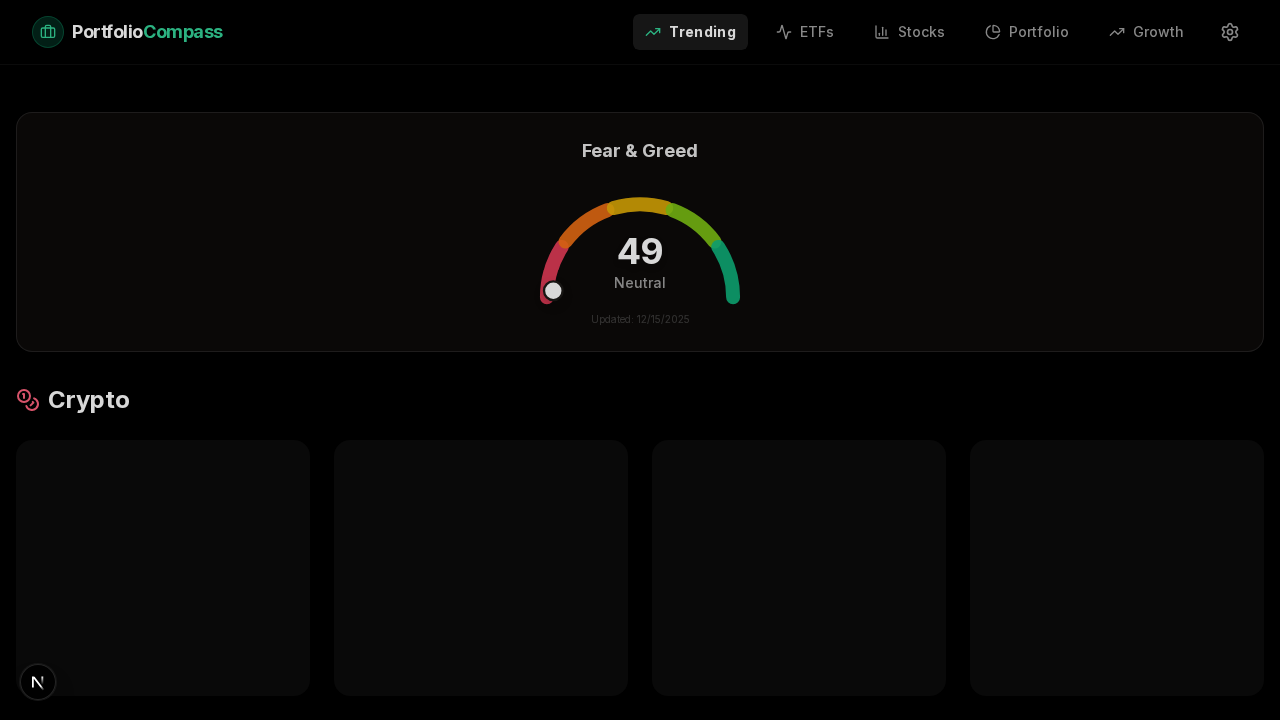
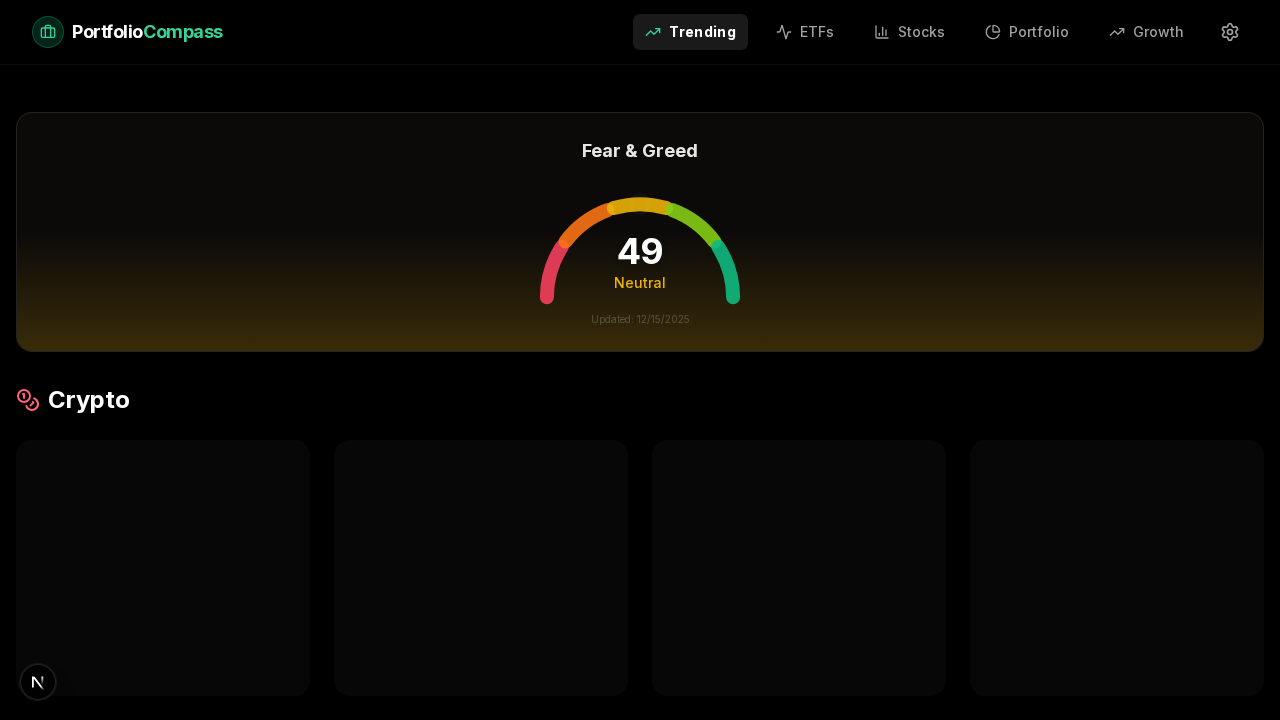
Nexus: Refine Fear & Greed Gauge Visuals
- Updated `components/FearGreedGauge.tsx` to match refined visual requirements:
  - Indicator is now an outline circle (white stroke, transparent fill).
  - Indicator animates from the center-top position (50%) with a fade-in effect.
  - Added a dynamic bottom gradient glow that reflects the current sentiment color.
  - Rating text color ("Neutral", "Fear", etc.) now matches the sentiment color.
- Verified visual changes with frontend tests.

diff --git a/components/FearGreedGauge.tsx b/components/FearGreedGauge.tsx
@@ -56,23 +56,24 @@ export default function FearGreedGauge() {
   // Visualization Constants
   const score = data.score;
   const radius = 80;
-  const strokeWidth = 12; // Thinner stroke as per new image
+  const strokeWidth = 12;
   const center = { x: 100, y: 100 };
 
   // Calculate indicator position
   // Score 0 -> -180 degrees (Left)
+  // Score 50 -> -90 degrees (Top)
   // Score 100 -> 0 degrees (Right)
-  // Note: SVG 0 is 3 o'clock. We want -180 to 0.
   const angleDeg = -180 + (score / 100) * 180;
   const angleRad = (angleDeg * Math.PI) / 180;
 
   const indicatorX = center.x + radius * Math.cos(angleRad);
   const indicatorY = center.y + radius * Math.sin(angleRad);
 
+  // Position for 50% (Top Center) for initial animation
+  const topX = center.x; // 100
+  const topY = center.y - radius; // 20
+
   // Generate Segment Paths
-  // Total span 180 degrees. 5 segments.
-  // Gap of 4 degrees between segments.
-  // Segment span = (180 - 4*4) / 5 = 164 / 5 = 32.8 degrees.
   const totalSpan = 180;
   const gap = 4;
   const segmentCount = 5;
@@ -86,13 +87,17 @@ export default function FearGreedGauge() {
     '#10b981', // Green (Extreme Greed)
   ];
 
+  // Determine active color for text and gradient based on score
+  let activeColor = colors[2]; // Default Neutral
+  if (score < 25) activeColor = colors[0];
+  else if (score < 45) activeColor = colors[1];
+  else if (score < 55) activeColor = colors[2];
+  else if (score < 75) activeColor = colors[3];
+  else activeColor = colors[4];
+
   const createSegmentPath = (index: number) => {
-    // Start angle for this segment
-    // Index 0 starts at -180.
     const startAngleDeg = -180 + index * (segmentSpan + gap);
     const endAngleDeg = startAngleDeg + segmentSpan;
-
-    // Convert to Radians
     const startRad = (startAngleDeg * Math.PI) / 180;
     const endRad = (endAngleDeg * Math.PI) / 180;
 
@@ -101,13 +106,17 @@ export default function FearGreedGauge() {
     const x2 = center.x + radius * Math.cos(endRad);
     const y2 = center.y + radius * Math.sin(endRad);
 
-    // SVG Path Command
-    // M startX startY A radius radius 0 largeArcFlag sweepFlag endX endY
     return `M ${x1} ${y1} A ${radius} ${radius} 0 0 1 ${x2} ${y2}`;
   };
 
   return (
-    <div className="w-full bg-stone-950 border border-white/10 rounded-2xl p-6 flex flex-col items-center justify-center relative overflow-hidden">
+    <div className="w-full bg-stone-950 border border-white/10 rounded-2xl p-6 flex flex-col items-center justify-center relative overflow-hidden group">
+
+      {/* Bottom Gradient Glow */}
+      <div
+        className="absolute bottom-0 left-0 right-0 h-1/2 opacity-20 pointer-events-none transition-colors duration-500"
+        style={{ background: `linear-gradient(to top, ${activeColor}, transparent)` }}
+      />
 
       <div className="flex items-center gap-2 mb-4 z-10 w-full justify-center">
         <h3 className="text-white/90 font-bold text-lg">Fear & Greed</h3>
@@ -129,27 +138,31 @@ export default function FearGreedGauge() {
                 />
             ))}
 
-            {/* Indicator Circle */}
+            {/* Indicator Circle (Outline) */}
             <motion.circle
-                cx={0} // We animate x/y via transform or just animate the values
+                cx={0}
                 cy={0}
                 r="8"
-                fill="white"
-                initial={{ x: center.x - radius, y: center.y }} // Start at left
-                animate={{ x: indicatorX, y: indicatorY }}
-                transition={{ type: "spring", stiffness: 50, damping: 15 }}
+                fill="none" // Just the outline
+                stroke="white"
+                strokeWidth="3"
+                initial={{ x: topX, y: topY, opacity: 0 }} // Start at 50% (Top), fade in
+                animate={{ x: indicatorX, y: indicatorY, opacity: 1 }}
+                transition={{ type: "spring", stiffness: 40, damping: 20, delay: 0.2 }}
                 className="drop-shadow-lg"
-                stroke="#1c1917" // match bg for "cutout" effect if needed, or just shadow
-                strokeWidth="2"
             />
         </svg>
 
-        {/* Score & Rating Text - Positioned absolutely to center within the semi-circle */}
+        {/* Score & Rating Text */}
         <div className="absolute bottom-0 left-0 right-0 flex flex-col items-center justify-end h-full pb-4 pointer-events-none">
             <div className="text-4xl font-bold font-space text-white tracking-tight leading-none drop-shadow-md">
                 {score}
             </div>
-            <div className="text-sm text-white/60 font-medium capitalize mt-1">
+            {/* Rating text follows active color */}
+            <div
+                className="text-sm font-medium capitalize mt-1 transition-colors duration-300"
+                style={{ color: activeColor }}
+            >
                 {data.rating}
             </div>
         </div>
